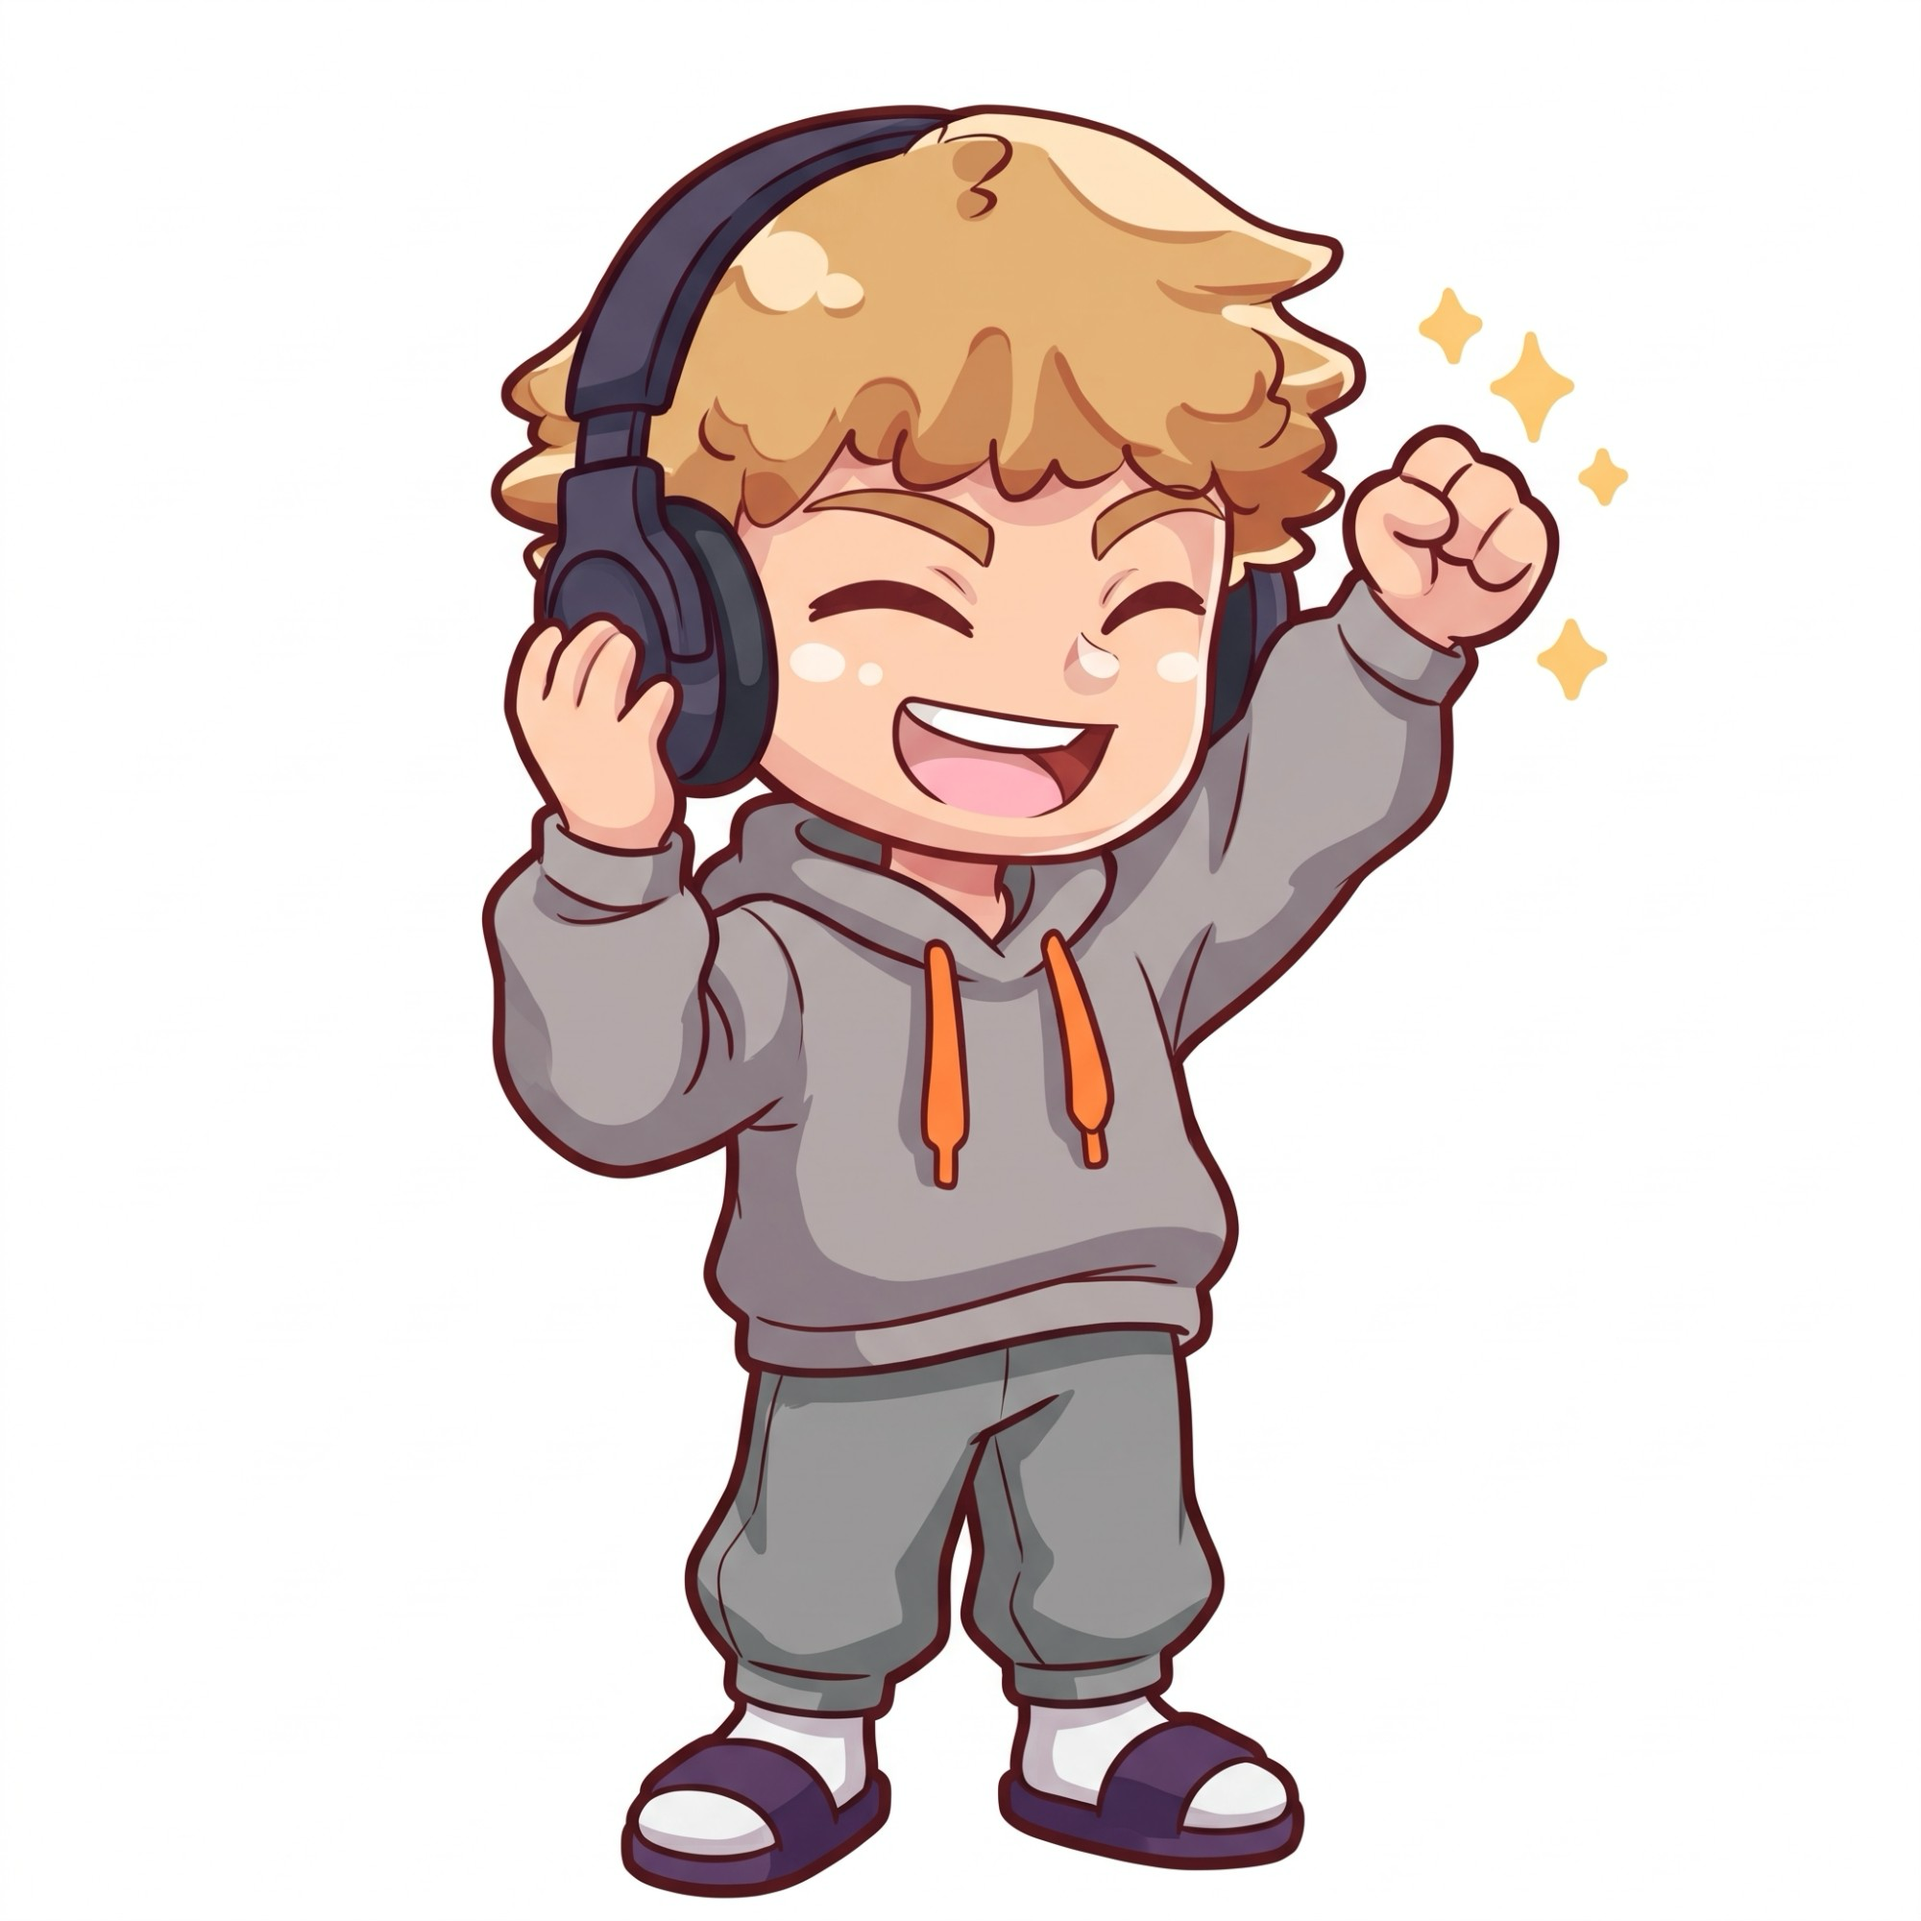
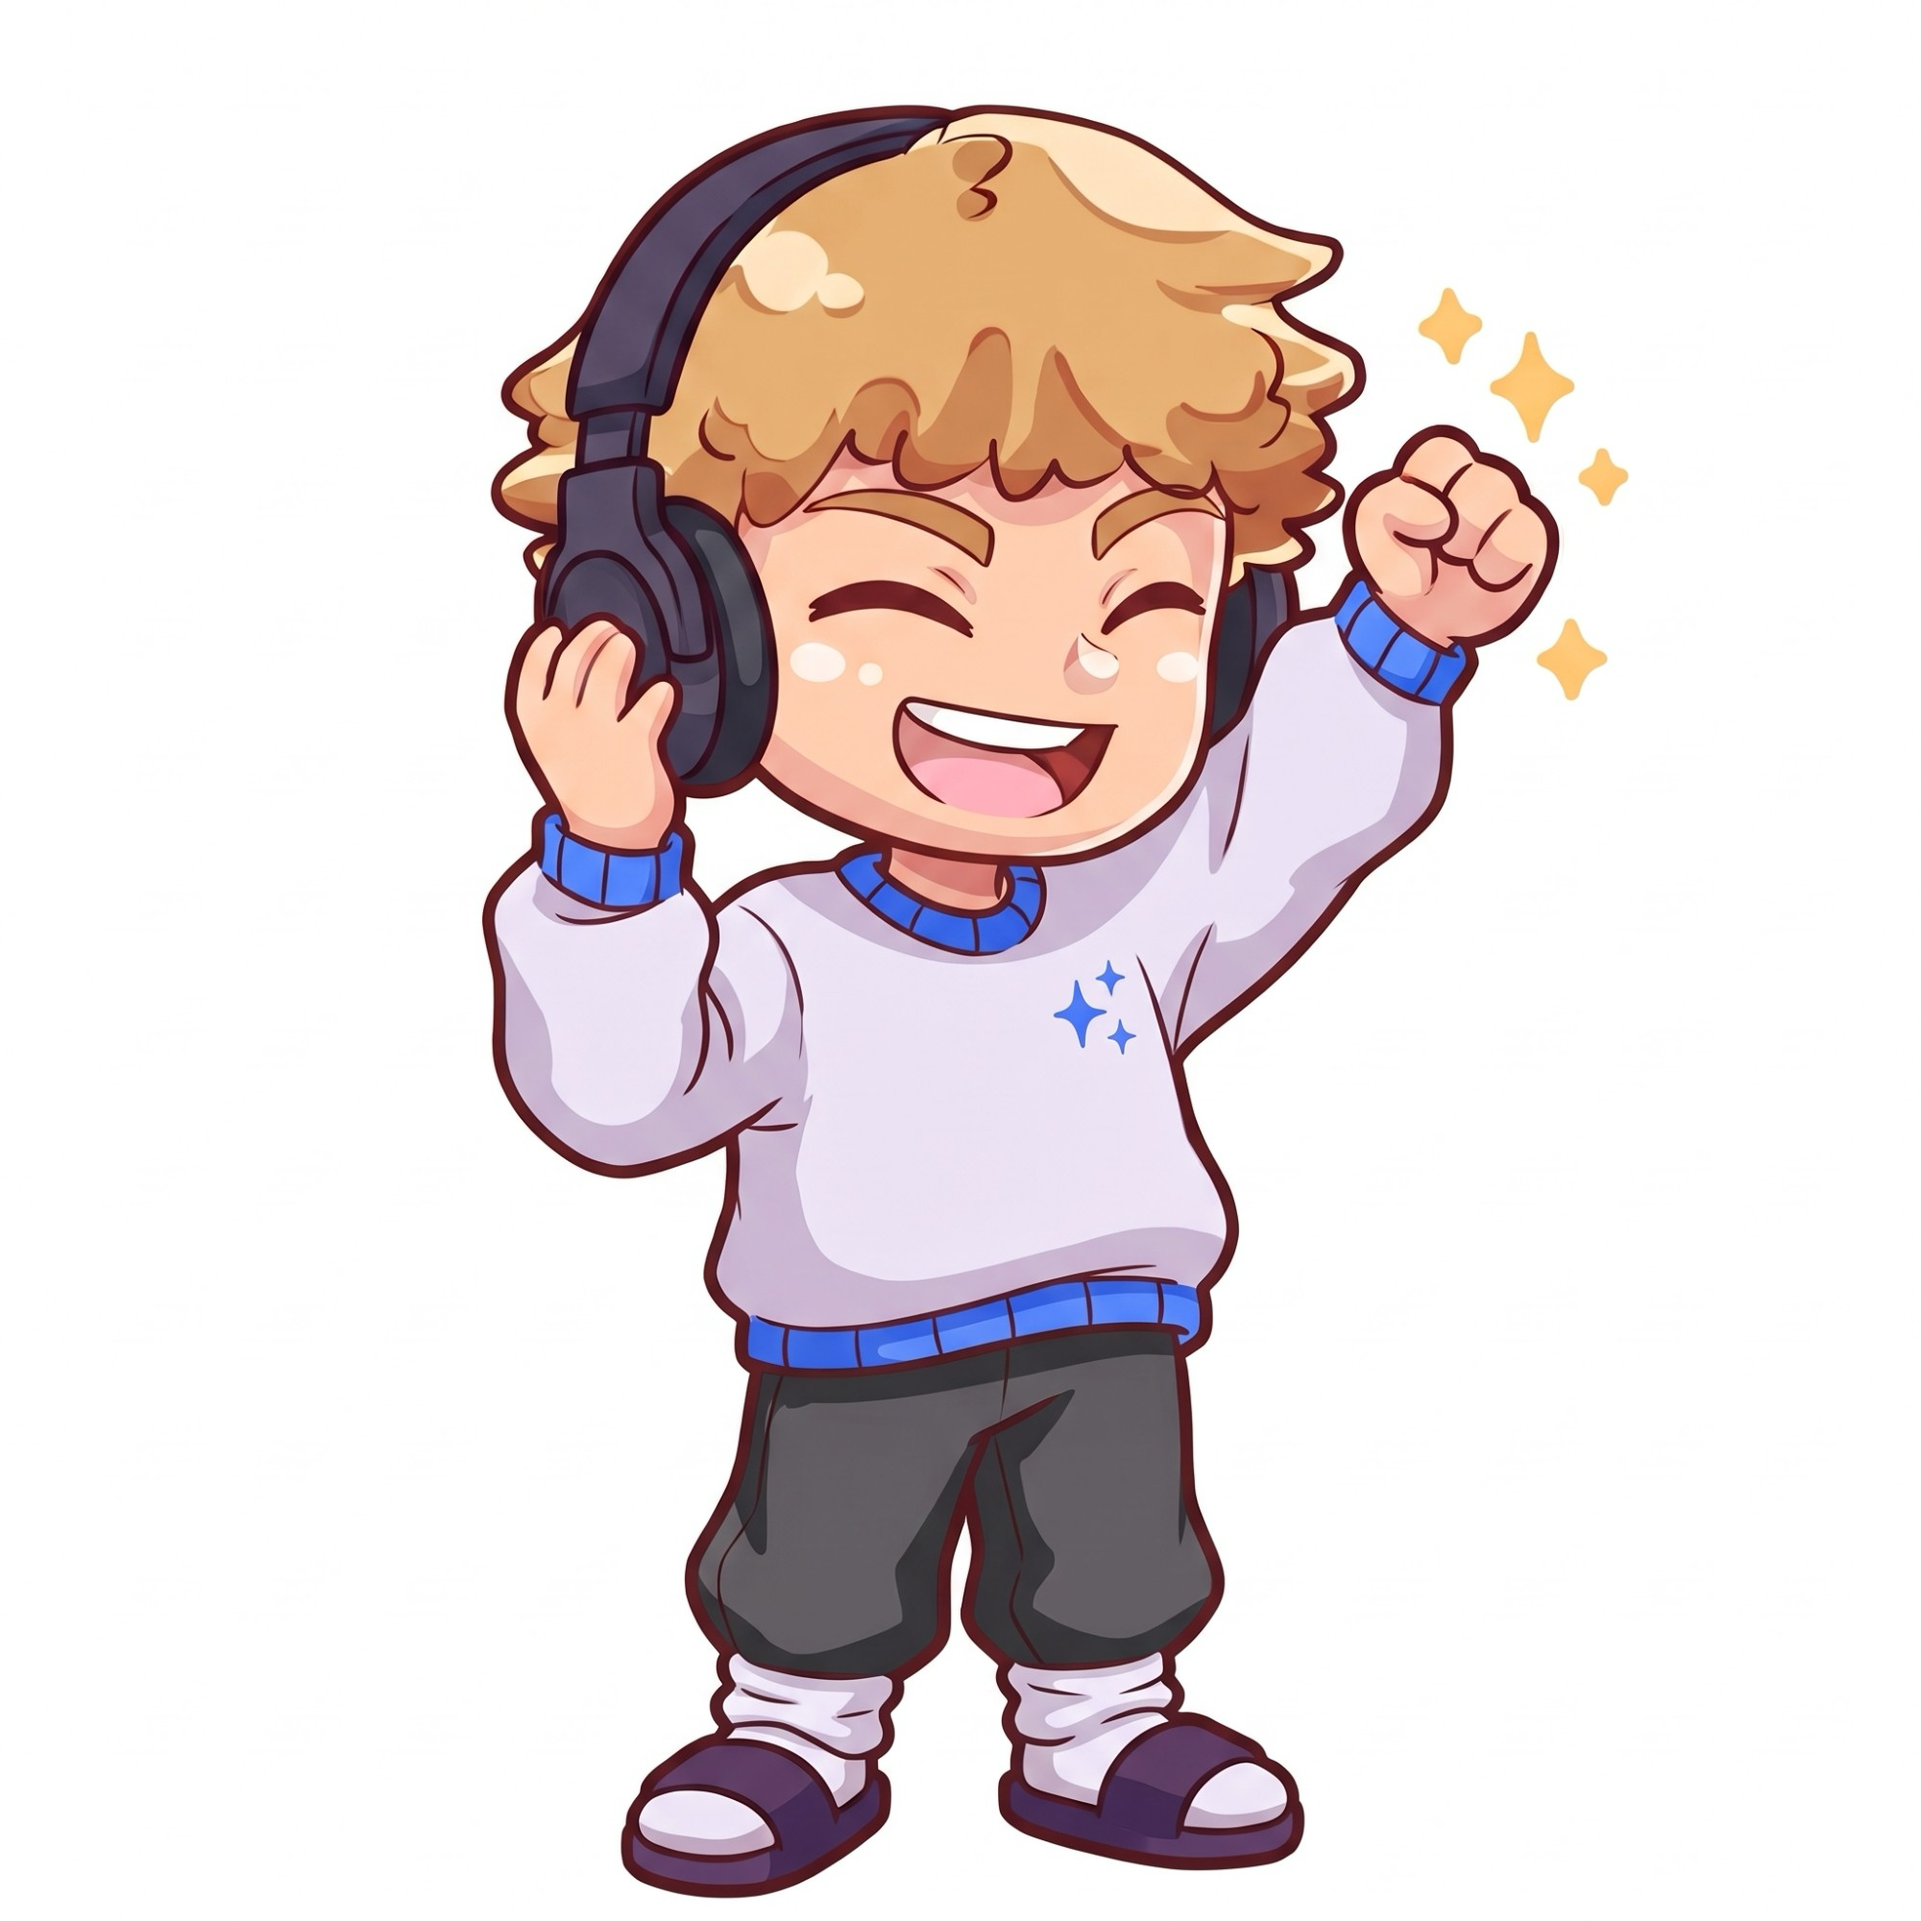
🍱 Keep the LoL night and music poses

Changed region(s): [[0.248, 0.31, 0.775, 0.93]]

diff --git a/docs/design/chibi-poses.md b/docs/design/chibi-poses.md
@@ -92,3 +92,8 @@ Approved by Lucas on the first try (`.impeccable/mocks/chibi/sleeping.png`): cur
 ## Night outfit (2026-10-20)
 
 The sleeping pose's pullover replaces the grey hoodie as the night outfit for the banner and LoL poses: light misty lilac-white chunky crewneck with electric-blue (#2f6bff) rib collar and cuffs and two small stitched sparkles, charcoal joggers, white socks.
+
+## LoL night and music (2026-10-20)
+
+- LoL night redone with the night pullover by an outfit edit (`.impeccable/mocks/chibi/lol-night.png`); the grey-hoodie version is kept as `lol-night-hoodie.png`. Gemini stitched three sparkles instead of two; accepted.
+- Music approved on the first try (`.impeccable/mocks/chibi/music.png`): eyes closed, singing along, hand on the ear cup, washed sky-blue tee over a white long-sleeve, washed dark-blue jeans, two music notes. Lucas's favourite so far. It also serves the "listening" presence state.
